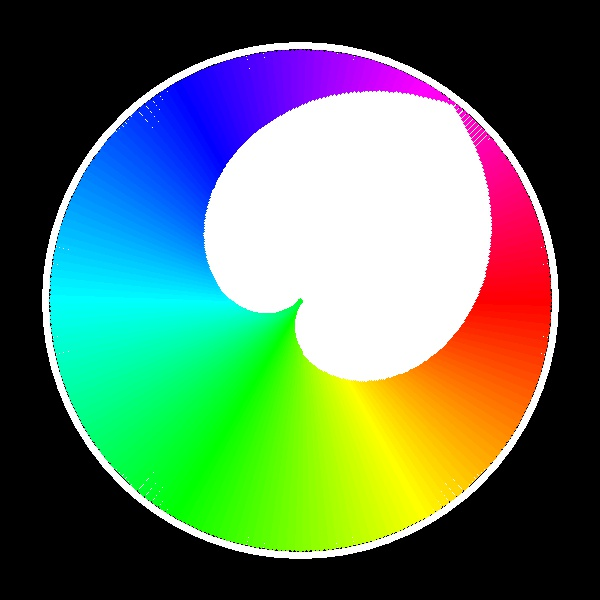
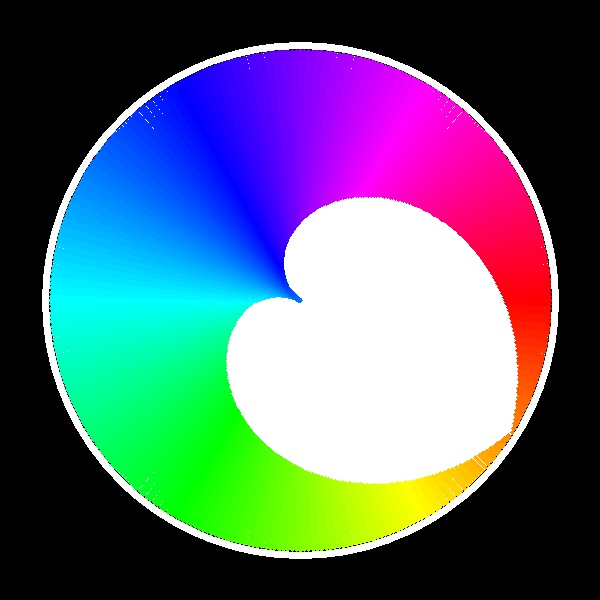
but

Changed region(s): [[0.33, 0.15, 0.87, 0.81]]

diff --git a/color_harmonization.py b/color_harmonization.py
@@ -41,25 +41,6 @@ class HueSector:
         H_2 = deg_distance(H, self.border[1])
         H_dist2bdr = np.minimum(H_1, H_2)
         return H_dist2bdr
-
-    def debug_1(self, H, i):
-        H_1 = deg_distance(H, self.border[0])
-        H_2 = deg_distance(H, self.border[1])
-        H_dist2bdr = np.minimum(H_1, H_2)
-        
-
-        canvas = util.draw_polar_histogram(H_1)
-        cv2.imwrite(str(i)+"H1.jpg", canvas)
-
-        canvas = util.draw_polar_histogram(H_2)
-        cv2.imwrite(str(i)+"H2.jpg", canvas)
-
-        canvas = util.draw_polar_histogram(H_dist2bdr)
-        cv2.imwrite(str(i)+"H_dist2bdr_old.jpg", canvas)
-
-        H_dist2bdr[self.is_in_sector(H)] = 0
-        canvas = util.draw_polar_histogram(H_dist2bdr)
-        cv2.imwrite(str(i)+"H_dist2bdr_new.jpg", canvas)
         
     def closest_border(self, H):
         H_1 = deg_distance(H, self.border[0])
@@ -73,15 +54,10 @@ class HueSector:
         H_1 = deg_distance(H, self.border[0])
         H_2 = deg_distance(H, self.border[1])
         H_cls_bdr = np.argmin((H_1, H_2), axis=0)
-        #H_cls_bdr = 2*(H_cls_bdr - 0.5)
         H_dir = np.zeros(H.shape)
         for i in range(2):
             mask = (H_cls_bdr == i)
-            #print("util", util.deg_closest_direction(H, self.border[i]))
-            #print("mask", mask)
-            #print("rrrr", util.deg_closest_direction(H, self.border[i]) * mask)
             H_dir += util.deg_closest_direction(H, self.border[i]) * mask
-        #print("H_dir", H_dir)
         return H_dir
 
     def distance_to_center(self, H):
@@ -108,18 +84,7 @@ class HarmonicScheme:
         
         H_dis = self.hue_distance(H)
         H_dis = np.deg2rad(H_dis)
-        #return np.sum(H_dis)
         return np.sum( np.multiply(H_dis, S) )
-
-    def debug_1(self):
-        H = np.asarray(range(360))
-        for i in range(len(self.sectors)):
-            sector = self.sectors[i]
-            sector.debug_1(H, i)
-            H_dist2bdr = sector.distance_to_border(H)
-            H_dist2bdr[sector.is_in_sector(H)] = 0
-            canvas = util.draw_polar_histogram(H_dist2bdr)
-            #cv2.imwrite(str(i)+"y.jpg", canvas)
 
     def hue_distance(self, H):
         H_dis = []
@@ -130,54 +95,6 @@ class HarmonicScheme:
         H_dis = np.asarray(H_dis)        
         H_dis = H_dis.min(axis=0)
         return H_dis
-
-    def debug_2(self):
-        H = np.asarray(range(360))
-        for i in range(len(self.sectors)):
-            sector = self.sectors[i]
-            #sector.debug_2(H, i)
-            H_dist2ctr = sector.distance_to_center(H)
-            width = sector.width
-            center = sector.center
-            H_gau = util.normalized_gaussian(H_dist2ctr, 0, width/1)
-            for i in range(360):
-                print(i, H_gau[i])
-            H_dir = sector.closest_border(H)
-            #H_dir = sector.closest_border_dir(H)
-            
-            canvas = util.draw_polar_histogram(H_dir)
-            cv2.imwrite(str(i)+"_H_dir.jpg", canvas)
-            
-            H_tmp = np.multiply(width / 2, 1 - H_gau)
-            for i in range(360):
-                print(i, H_tmp[i])
-            
-            H_shf = -np.multiply( H_dir, H_tmp )
-            canvas = util.draw_polar_histogram(H_shf)
-            cv2.imwrite(str(i)+"_H_shf.jpg", canvas)
-            for i in range(360):
-                print(i, H_shf[i])
-            #print("shift", H_shf)
-            H_new = (center + H_shf)
-            #print(H_new)
-            H_new = np.remainder(H_new, 360)
-            #print(H_new)
-
-            H_diff = util.deg_distance(H, H_new)
-            #print(H_diff.astype(int))
-            for i in range(360):
-                print(i, H_diff[i])
-            canvas = util.draw_polar_histogram(H_diff)
-            cv2.imwrite(str(i)+"_H_diff.jpg", canvas)
-            
-            H_new /= 2
-            #print("new", H_new)
-            H_new = H_new.astype(int)
-            #print("new", H_new)
-            canvas = util.draw_polar_histogram(H_new)
-            cv2.imwrite(str(i)+"_H_new.jpg", canvas)
-
-
 
     def hue_shifted(self, X):
         Y = X.copy()
@@ -200,44 +117,24 @@ class HarmonicScheme:
             H_ctr[mask] = sector.center
             H_wid[mask] = sector.width
             H_dir += sector.closest_border(H) * mask
-            #print(H_cls)
-            #print(i,mask)
-            #print(sector.center, sector.width)
-            #print(sector.distance_to_center(H))
-            #cv2.imwrite(str(i)+"tmp.jpg", sector.distance_to_center(H))
-            #cv2.imwrite(str(i)+"mask.jpg", mask.astype(np.int32)*255)
-            #print(mask)
             H_dist2ctr = sector.distance_to_center(H)
-            H_dist2ctr[sector.is_in_sector(H)] = 0
+            #H_dist2ctr[sector.is_in_sector(H)] = 0
             H_d2c += H_dist2ctr * mask
-            #cv2.imwrite(str(i)+"d2c.jpg", H_d2c)
             
-        #print(H_d2c)
         H_sgm = H_wid / 2
         H_gau = util.normalized_gaussian(H_d2c, 0, H_sgm)
         H_tmp = np.multiply(H_wid / 2, 1 - H_gau)
-        H_shf = - np.multiply( H_dir, H_tmp )
-        H_new = (H + H_shf).astype(np.int32)
+        H_shf = np.multiply( H_dir, H_tmp )
+        H_new = (H_ctr + H_shf).astype(np.int32)
+
+        for i in range(len(self.sectors)):
+            sector = self.sectors[i]
+            mask = sector.is_in_sector(H)
+            np.copyto(H_new, H, where=sector.is_in_sector(H))
+        #H_new = tmp.data
 
         H_new = np.remainder(H_new, 360)
         H_new = (H_new/2).astype(np.uint8)
-        #print(H_gau.max(), H_gau.min())
-        #print(H_d2c.max())
-        #print(H_sig)
-        #print(H_gau.dtype)
-        
-        #print(H_gau)
-        #cv2.imwrite("H_gau.jpg", H_gau*255)
-        #print(H_tmp.max(), H_tmp.min())
-        #print(H_ctr.max(), H_ctr.min())
-        #cv2.imwrite("H_tmp.jpg", H_tmp)
-        #H_shf[H_dir > 0] = np.multiply(H_wid/2, 1-H_gau)
-        #H_shf = H_ctr - np.multiply( H_dir, np.multiply(H_wid / 2, 1 - H_gau) )
-        #H_shf = H_ctr - np.multiply(H_wid / 2, 1 - H_gau)
-        #print(H_shf.max(), H_shf.min())
-        #H_shf = np.remainder(H_shf, H_cycle)
-        #print(H_shf.max(), H_shf.min())
-        #print(H_shf)
         Y[:,:,0] = H_new
         return Y
 
@@ -250,17 +147,13 @@ def B(X):
             alpha = 360/A * j
             harmomic_scheme = HarmonicScheme(m, alpha)
             F_matrix[i, j] = harmomic_scheme.harmony_score(X)
-
-    #print( np.argmin(F_matrix[5]) )
-    print( F_matrix.min(axis=1) )
-    best_m_idx = 5
-    best_alpha = np.argmin(F_matrix[best_m_idx])
-    #(best_m_idx, best_alpha) = np.unravel_index( np.argmin(F_matrix), F_matrix.shape )
+    (best_m_idx, best_alpha) = np.unravel_index( np.argmin(F_matrix), F_matrix.shape )
     best_m = template_types[best_m_idx]
 
-    best_harmomic_scheme = HarmonicScheme(best_m, best_alpha)
-    best_harmomic_scheme.debug_1()
-    best_harmomic_scheme.debug_2()
+    #best_m = "L"
+    best_alpha = np.argmin(F_matrix[best_m_idx])
+    #(best_m_idx, best_alpha) = np.unravel_index( np.argmin(F_matrix), F_matrix.shape )
+    #best_m = template_types[best_m_idx]
 
-    #best_harmomic_scheme.harmony_score(X, True)
+    best_harmomic_scheme = HarmonicScheme(best_m, best_alpha)
     return best_harmomic_scheme
